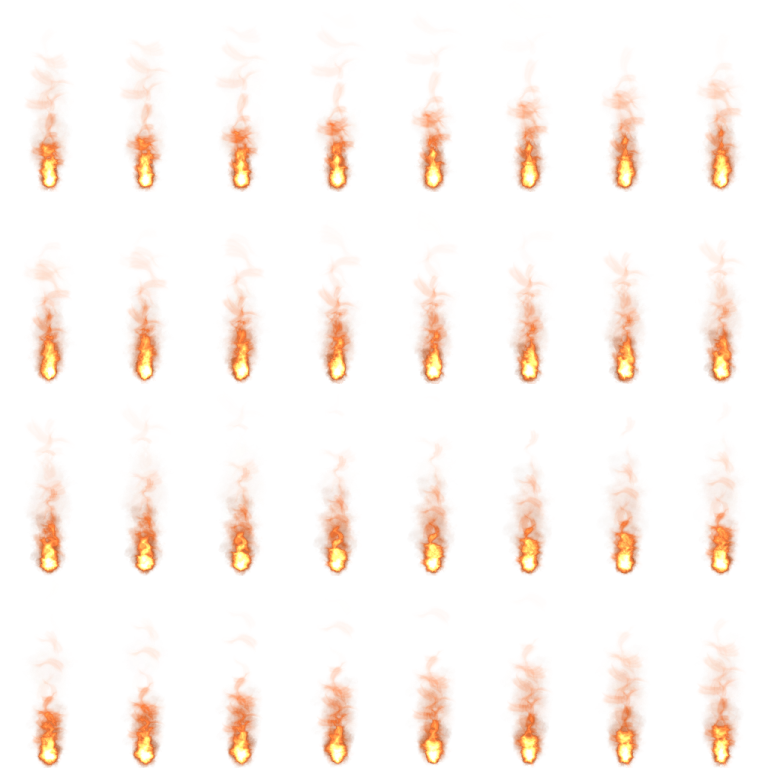
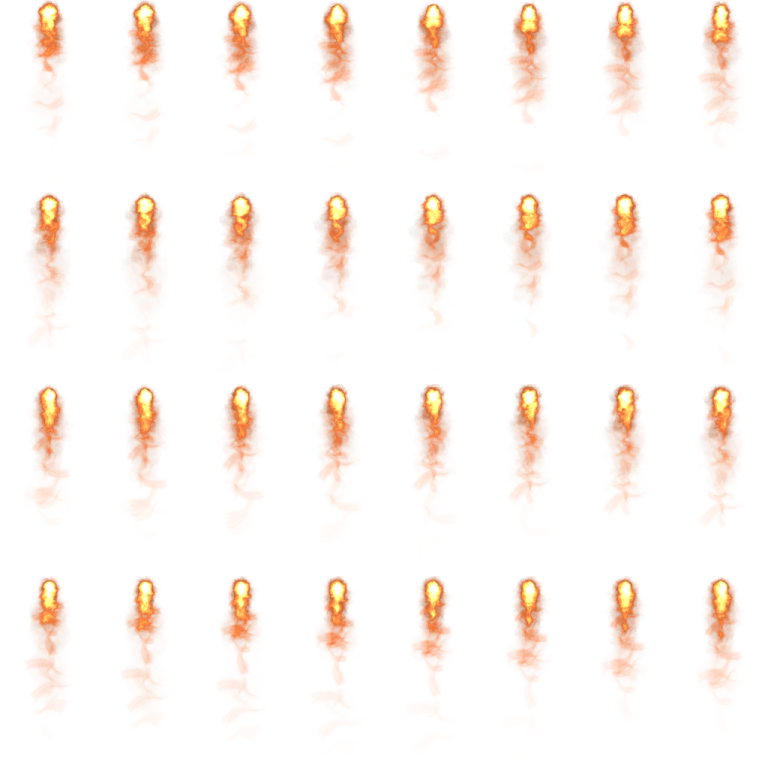
Added fireburst of players sheep engine (animation + rotation)

diff --git a/game/player.go b/game/player.go
@@ -26,6 +26,7 @@ type Player struct {
 	objectRotationSpeed float64
 	weapons             []*Weapon
 	curWeapon           *Weapon
+	animations          []*Animation
 	hp                  int
 }
 
@@ -39,7 +40,13 @@ func NewPlayer(curgame *Game) *Player {
 		X: config.ScreenWidth/2 - halfW,
 		Y: config.ScreenHeight/2 - halfH,
 	}
+	posFireburst := config.Vector{
+		X: config.ScreenWidth/2 - halfW,
+		Y: config.ScreenHeight/2 + float64(bounds.Dy()/2),
+	}
 	startWeapon := NewWeapon(config.LightRocket)
+	engineFireburst := NewAnimation(posFireburst, assets.PlayerFireburstSpriteSheet, 3, 30, 192, 96, true, "engineFireburst", 0)
+	curgame.AddAnimation(engineFireburst)
 	p := &Player{
 		game:                curgame,
 		position:            pos,
@@ -49,6 +56,9 @@ func NewPlayer(curgame *Game) *Player {
 		hp:                  10,
 		weapons: []*Weapon{
 			startWeapon,
+		},
+		animations: []*Animation{
+			engineFireburst,
 		},
 	}
 	p.curWeapon = p.weapons[0]
@@ -100,6 +110,22 @@ func (p *Player) Update() {
 		p.rotation -= rotationIncrement
 	}
 
+	for _, a := range p.animations {
+		switch a.name {
+		case "engineFireburst":
+			w := p.sprite.Bounds().Dx()
+			h := p.sprite.Bounds().Dy()
+			px, py := p.position.X+float64(w)/2, p.position.Y+float64(h)/2
+			a.position.X = px + ((p.position.X-px)*math.Cos(-p.rotation) - (py-p.position.Y)*math.Sin(-p.rotation))
+			a.position.Y = py - ((p.position.X-px)*math.Sin(-p.rotation) + (py-p.position.Y)*math.Cos(-p.rotation))
+			a.rotation = p.rotation
+			a.rotationPoint.X = float64(w)
+			a.rotationPoint.Y = float64(h)
+		default:
+			a.position = p.position
+			a.rotation = p.rotation
+		}
+	}
 	if ebiten.IsKeyPressed(ebiten.Key1) {
 		p.curWeapon = p.weapons[0]
 	} else if ebiten.IsKeyPressed(ebiten.Key2) && len(p.weapons) > 1 {
@@ -168,8 +194,6 @@ func (p *Player) Update() {
 }
 
 func (p *Player) Draw(screen *ebiten.Image) {
-	engineFireburst := NewAnimation(p.position, assets.PlayerFireburstSpriteSheet, 1, 31, 73, 75, true)
-	p.game.AddAnimation(engineFireburst)
 	objects.RotateAndTranslateObject(p.rotation, p.sprite, screen, p.position.X, p.position.Y)
 }
 

diff --git a/game/animation.go b/game/animation.go
@@ -10,7 +10,9 @@ import (
 
 type Animation struct {
 	position      config.Vector
-	sprite        *ebiten.Image
+	rotationPoint config.Vector
+	rotation      float64
+	sprites       []*ebiten.Image
 	speed         int
 	looping       bool
 	run           bool
@@ -21,12 +23,14 @@ type Animation struct {
 	frameHeight   int
 	frameWidth    int
 	curTick       int
+	name          string
 }
 
-func NewAnimation(position config.Vector, sprite *ebiten.Image, speed int, numFrames int, frameHeight int, frameWidth int, looping bool) *Animation {
+func NewAnimation(position config.Vector, sprite *ebiten.Image, speed int, numFrames int, frameHeight int, frameWidth int, looping bool, name string, rotation float64) *Animation {
+	sprites := LoadSpritesheet(sprite, numFrames, frameWidth, frameHeight)
 	return &Animation{
 		position:      position,
-		sprite:        sprite,
+		sprites:       sprites,
 		speed:         speed,
 		looping:       looping,
 		run:           true,
@@ -36,11 +40,17 @@ func NewAnimation(position config.Vector, sprite *ebiten.Image, speed int, numFr
 		currF:         0,
 		frameHeight:   frameHeight,
 		frameWidth:    frameWidth,
+		name:          name,
+		rotation:      rotation,
 	}
 }
 
 func (a *Animation) Update() {
 	if !a.run {
+		return
+	}
+	if a.curTick < a.speed {
+		a.curTick++
 		return
 	}
 	if a.looping && a.currF == a.numFrames-1 {
@@ -50,8 +60,12 @@ func (a *Animation) Update() {
 }
 
 func (a *Animation) Draw(screen *ebiten.Image) {
-	sprites := LoadSpritesheet(a.sprite, a.numFrames, a.frameWidth, a.frameHeight)
-	objects.RotateAndTranslateObject(0, sprites[a.currF], screen, a.position.X, a.position.Y)
+	switch a.name {
+	case "engineFireburst":
+		objects.RotateAndTranslateAnimation(a.rotation, a.sprites[a.currF], screen, a.position.X, a.position.Y)
+	default:
+		objects.RotateAndTranslateObject(a.rotation, a.sprites[a.currF], screen, a.position.X, a.position.Y)
+	}
 }
 
 func LoadSpritesheet(sourceImg *ebiten.Image, n int, width int, height int) []*ebiten.Image {

diff --git a/game/game.go b/game/game.go
@@ -9,6 +9,7 @@ import (
 	"slices"
 
 	"github.com/hajimehoshi/ebiten/v2"
+	"github.com/hajimehoshi/ebiten/v2/ebitenutil"
 	"github.com/hajimehoshi/ebiten/v2/text"
 	"github.com/hajimehoshi/ebiten/v2/vector"
 )
@@ -387,7 +388,7 @@ func (g *Game) Update() error {
 
 	for i, a := range g.animations {
 		a.Update()
-		if a.currF >= a.numFrames && i < len(g.animations) {
+		if a.currF >= a.numFrames && i < len(g.animations) && !a.looping {
 			g.animations = slices.Delete(g.animations, i, i+1)
 		}
 	}
@@ -463,6 +464,12 @@ func (g *Game) Draw(screen *ebiten.Image) {
 	// 	msg := fmt.Sprintf("Beams: %v, Rotation: %v, PlayerRotation: %v", g.beam.Line, gradRot, gradRotPl)
 	// 	ebitenutil.DebugPrint(screen, msg)
 	// }
+	for _, a := range g.animations {
+		if a.name == "engineFireburst" {
+			msg := fmt.Sprintf("X: %v, Y: %v, Angle: %v", a.position.X, a.position.Y, a.rotation)
+			ebitenutil.DebugPrint(screen, msg)
+		}
+	}
 	text.Draw(screen, fmt.Sprintf("Level: %v Stage: %v Wave: %v Ammo: %v", g.curLevel.LevelId+1, g.CurStage.StageId+1, g.CurWave.WaveId+1, g.player.curWeapon.ammo), assets.InfoFont, 20, 50, color.White)
 	text.Draw(screen, fmt.Sprintf("%06d", g.score), assets.ScoreFont, config.ScreenWidth/2-100, 50, color.White)
 }
@@ -492,13 +499,12 @@ func (g *Game) AddAnimation(a *Animation) {
 }
 
 func (g *Game) KillEnemy(i int) {
-	enemyBlow := NewAnimation(g.enemies[i].position, assets.EnemyBlowSpriteSheet, 1, 31, 73, 75, false)
+	enemyBlow := NewAnimation(g.enemies[i].position, assets.EnemyBlowSpriteSheet, 1, 31, 73, 75, false, "enemyBlow", 0)
 	g.AddAnimation(enemyBlow)
 	g.enemies = append(g.enemies[:i], g.enemies[i+1:]...)
 }
 
 func (g *Game) Reset() {
-	g.player = NewPlayer(g)
 	g.meteors = nil
 	g.projectiles = nil
 	g.enemyProjectiles = nil
@@ -507,6 +513,7 @@ func (g *Game) Reset() {
 	g.beamAnimations = nil
 	g.animations = nil
 	g.score = 0
+	g.player = NewPlayer(g)
 	var newLevels = config.NewLevels()
 	g.curLevel = newLevels[0]
 	g.CurStage = &g.curLevel.Stages[0]

diff --git a/objects/move.go b/objects/move.go
@@ -13,7 +13,15 @@ func RotateAndTranslateObject(angle float64, object *ebiten.Image, screen *ebite
 	op.GeoM.Translate(-float64(w)/2, -float64(h)/2)
 	op.GeoM.Rotate(angle)
 	op.GeoM.Translate(x+float64(w)/2, y+float64(h)/2)
+	//vector.StrokeRect(screen, float32(x), float32(y), float32(w), float32(h), 2, color.RGBA{255, 255, 255, 255}, false)
+	screen.DrawImage(object, op)
+}
 
+func RotateAndTranslateAnimation(angle float64, object *ebiten.Image, screen *ebiten.Image, x, y float64) {
+	op := &ebiten.DrawImageOptions{}
+	op.GeoM.Rotate(angle)
+	op.GeoM.Translate(x, y)
+	//vector.StrokeRect(screen, float32(x), float32(y), float32(w), float32(h), 2, color.RGBA{255, 255, 255, 255}, false)
 	screen.DrawImage(object, op)
 }
 

diff --git a/assets/assets.go b/assets/assets.go
@@ -29,7 +29,7 @@ var FirstLevelBg = mustLoadImage("img/bg.png")
 var ScoreFont = mustLoadFont("fonts/Kenney Pixel.ttf", 48)
 var InfoFont = mustLoadFont("fonts/Kenney Pixel.ttf", 32)
 var EnemyBlowSpriteSheet = mustLoadImage("img/Effects/blow.png")
-var PlayerFireburstSpriteSheet = mustLoadImage("img/Effects/fireburst.png")
+var PlayerFireburstSpriteSheet = mustLoadImage("img/Effects/fire.png")
 
 func mustLoadImage(name string) *ebiten.Image {
 	f, err := assets.Open(name)

diff --git a/game/item.go b/game/item.go
@@ -141,10 +141,4 @@ func (i *Item) Collider() image.Rectangle {
 			Y: int(i.position.Y + float64(bounds.Dy())),
 		},
 	}
-	// return config.NewRect(
-	// 	i.position.X,
-	// 	i.position.Y,
-	// 	float64(bounds.Dx()),
-	// 	float64(bounds.Dy()),
-	// )
 }
